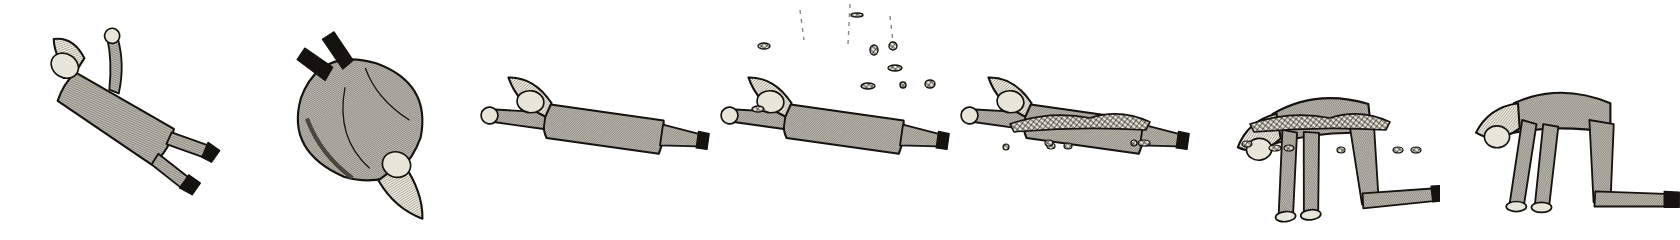
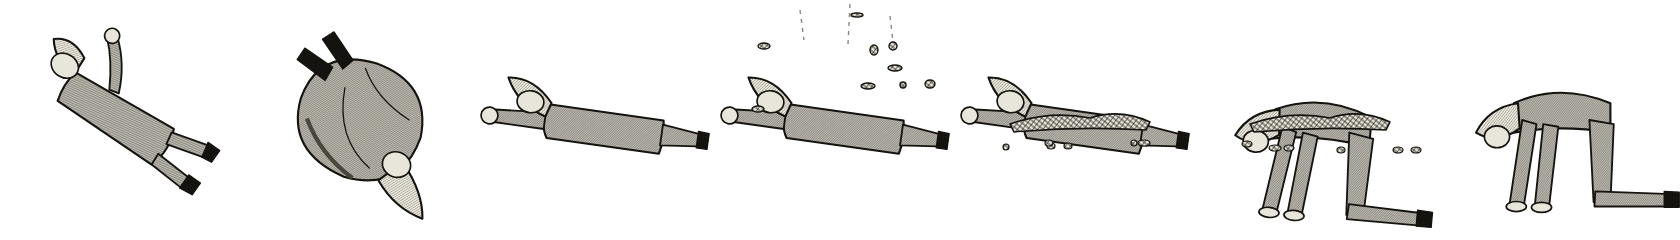
Chute dans la fissure : la tête reste basse pendant qu'il se relève, il est sonné
Claude-Session: https://claude.ai/code/session_011WbKxBfoJbcyebqrVqkEA5

Changed region(s): [[0.7119, 0.4083, 0.8667, 0.9625]]

diff --git a/tools/gen_cin_e6.py b/tools/gen_cin_e6.py
@@ -270,7 +270,7 @@ def image_b(k: int) -> str:
     """Tobie seul, centré dans une image de 240 x 240 transparente."""
     corps = {0: tobie_glisse(), 1: tobie_boule(200), 2: tobie_etale(), 3: tobie_etale() + terre(3),
              4: tobie_etale() + terre(4),
-             5: f'<g transform="translate(0 6) rotate(-6)">{tobie_quatre_pattes()}</g>' + terre(5),
+             5: f'<g transform="translate(0 10) rotate(5)">{tobie_quatre_pattes()}</g>' + terre(5),
              6: tobie_quatre_pattes()}[k]
     return f'<g transform="translate(120 120)">{corps}</g>'
 
